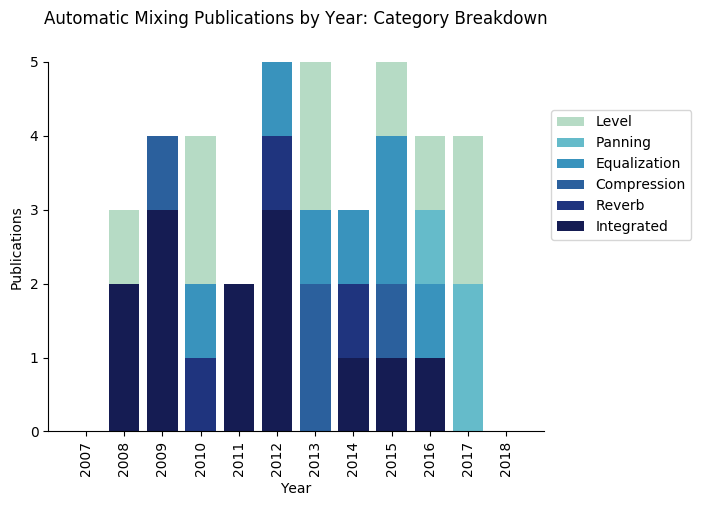
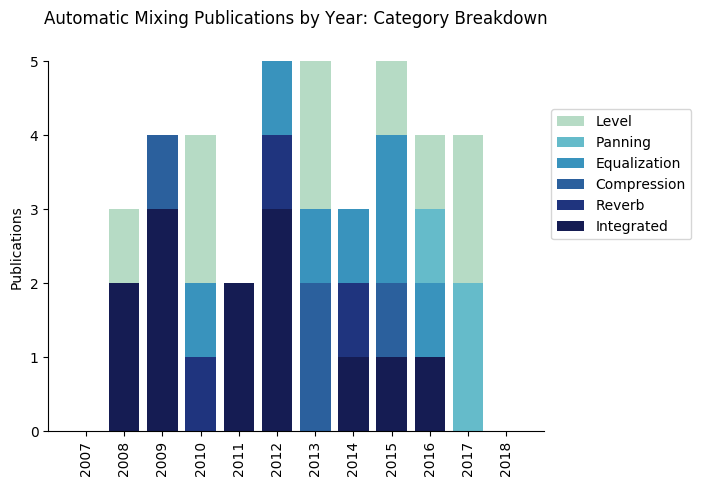
more bar graph tweaking... sorry

diff --git a/mixingpapers.py b/mixingpapers.py
@@ -70,9 +70,8 @@ def calculate_statistics(filename):
     ax.spines['top'].set_visible(False)
     ax.spines['right'].set_visible(False)
     plt.xticks(years_num, years_num, rotation='vertical')
-    plt.xlabel('Year')
     plt.ylabel('Publications')
-    plt.title('Automatic Mixing Publications by Year', y=1.08)
+    plt.title('Automatic Mixing Publications by Year')
     plt.savefig('figs/papers_by_year.png', bbox_inches="tight", transparent=True)
 
     # plot publications by year with division by approach
@@ -88,7 +87,6 @@ def calculate_statistics(filename):
     ax.spines['top'].set_visible(False)
     ax.spines['right'].set_visible(False)
     plt.xticks(years_num, years_num, rotation='vertical')
-    plt.xlabel('Year')
     plt.ylabel('Publications')
     plt.title('Automatic Mixing Publications by Year: Approach Breakdown', y=1.08)
     lgd = plt.legend((p3[0], p2[0], p1[0]), ('Machine Learning', 'Knowledge Engineering', 'Grounded Theory'), loc=3, bbox_to_anchor=(1, 0.5))
@@ -113,7 +111,6 @@ def calculate_statistics(filename):
     ax.spines['top'].set_visible(False)
     ax.spines['right'].set_visible(False)
     plt.xticks(years_num, years_num, rotation='vertical')
-    plt.xlabel('Year')
     plt.ylabel('Publications')
     plt.title('Automatic Mixing Publications by Year: Category Breakdown', y=1.08)
     lgd = plt.legend((p6[0], p5[0], p4[0], p3[0], p2[0], p1[0]), ('Level', 'Panning', 'Equalization', 'Compression', 'Reverb', 'Integrated'), loc=3, bbox_to_anchor=(1, 0.5))
